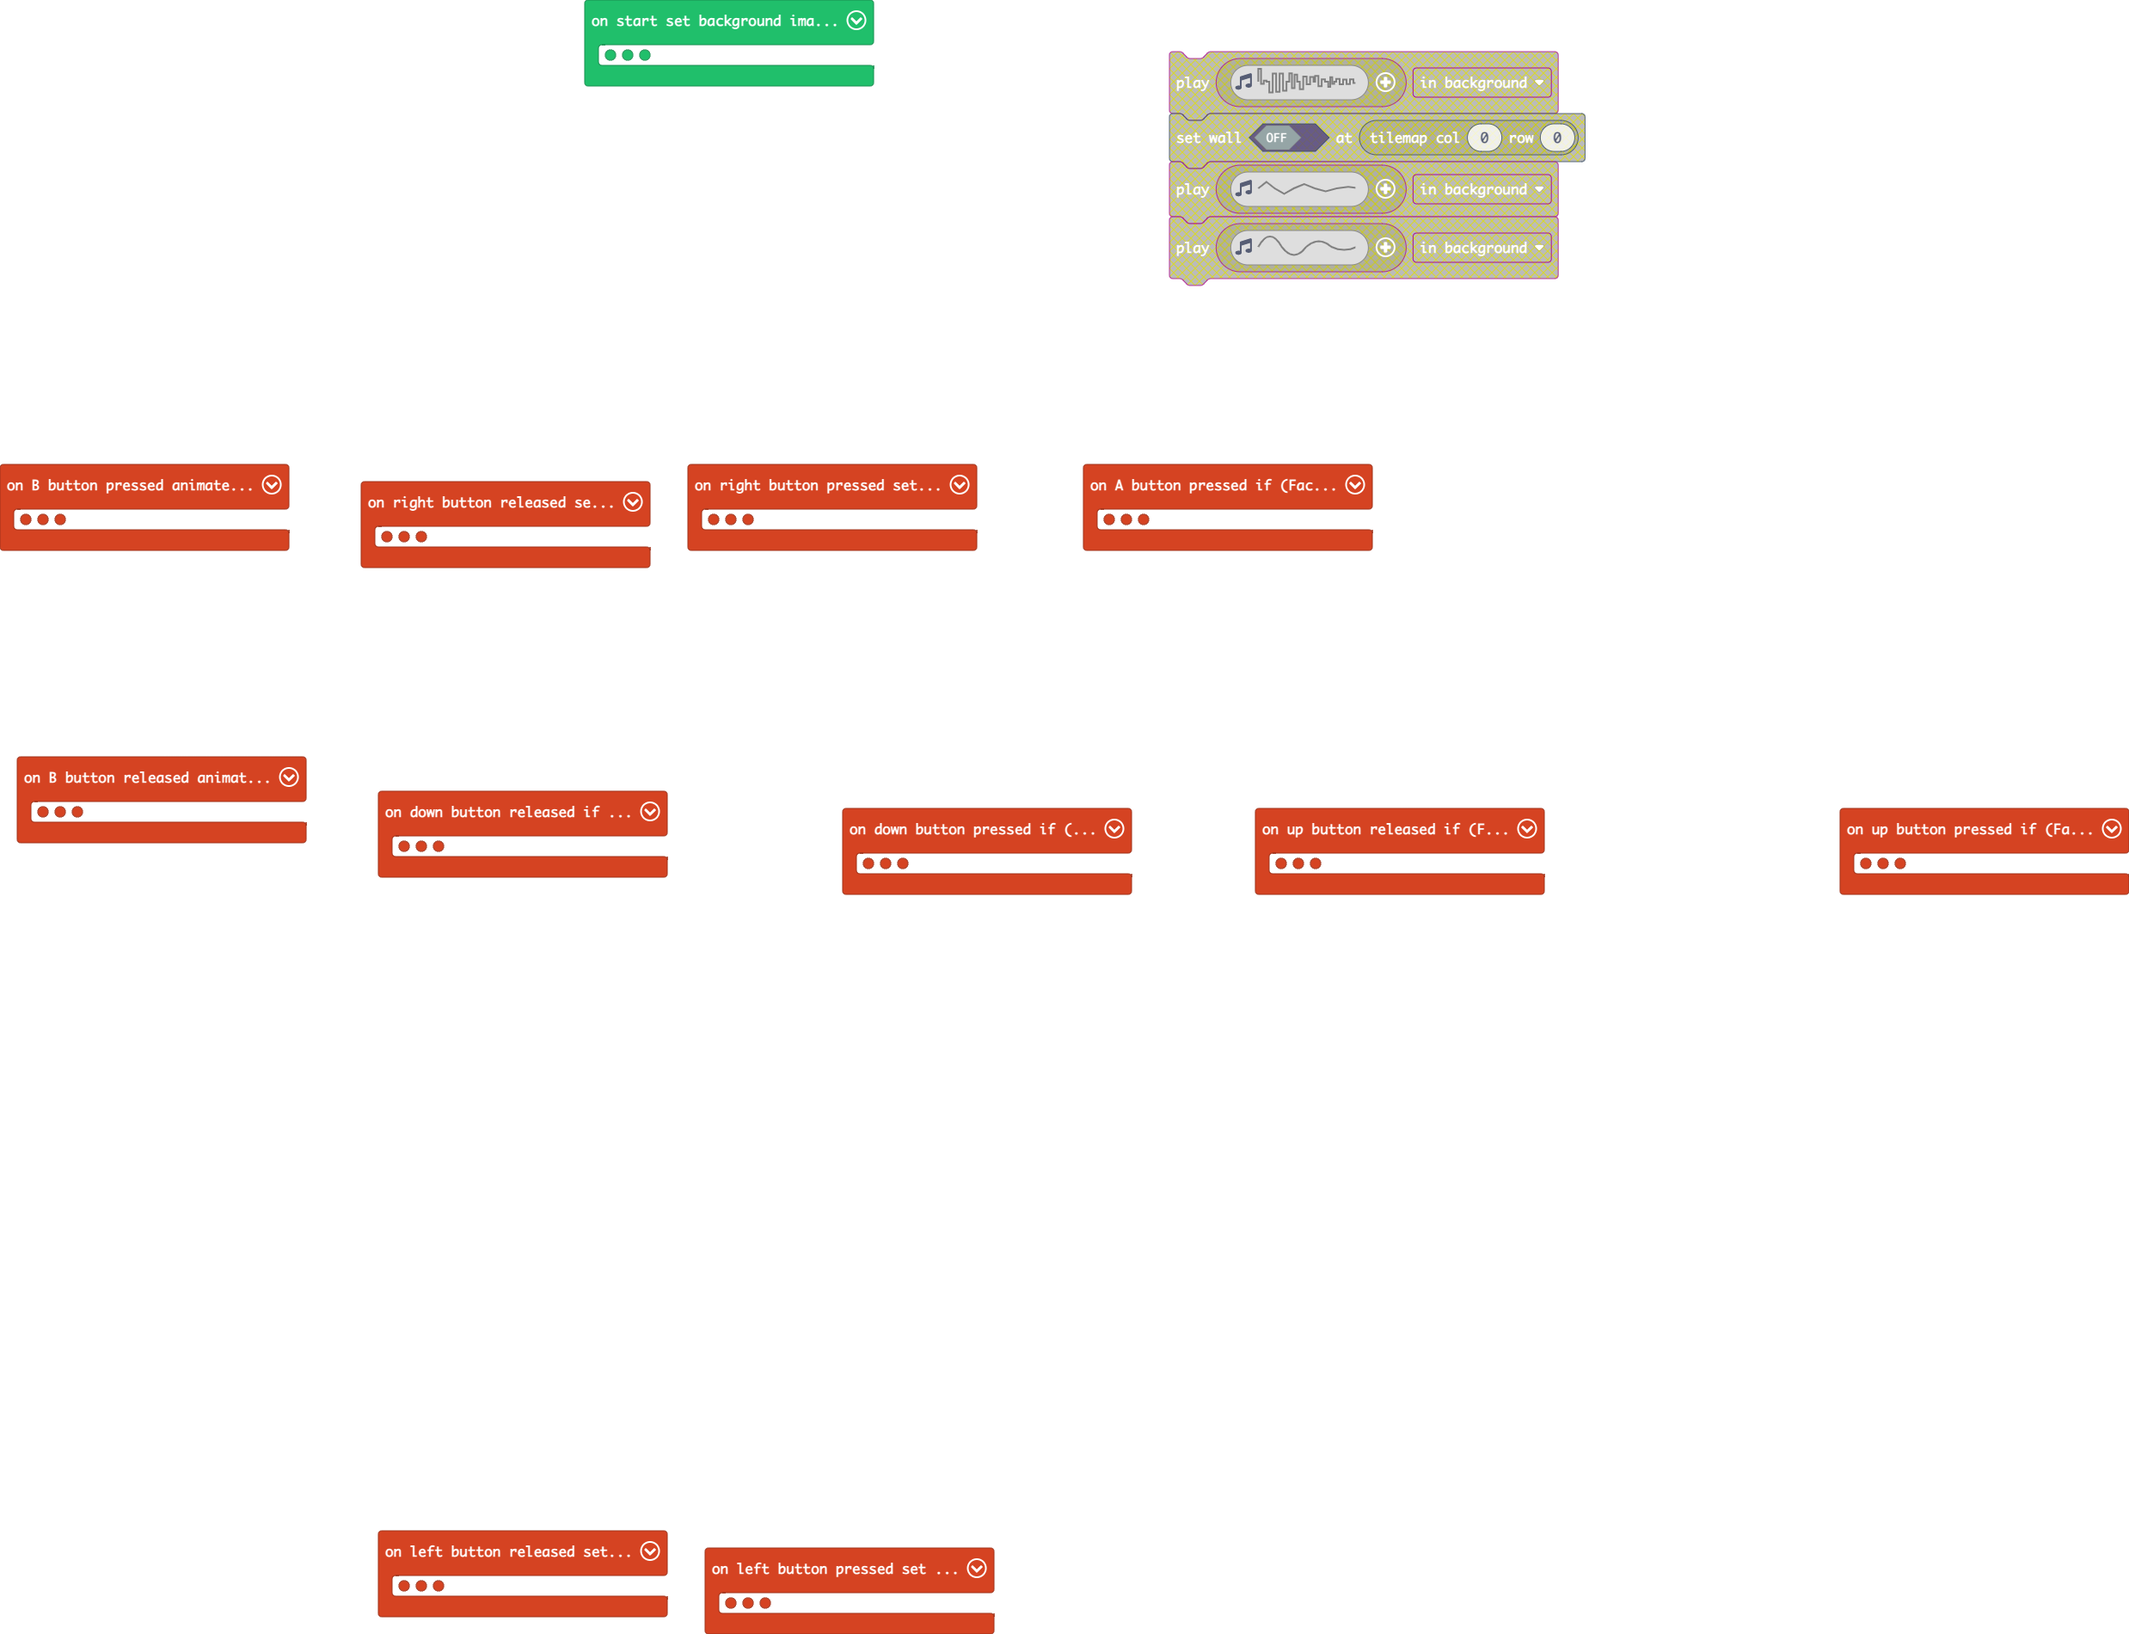
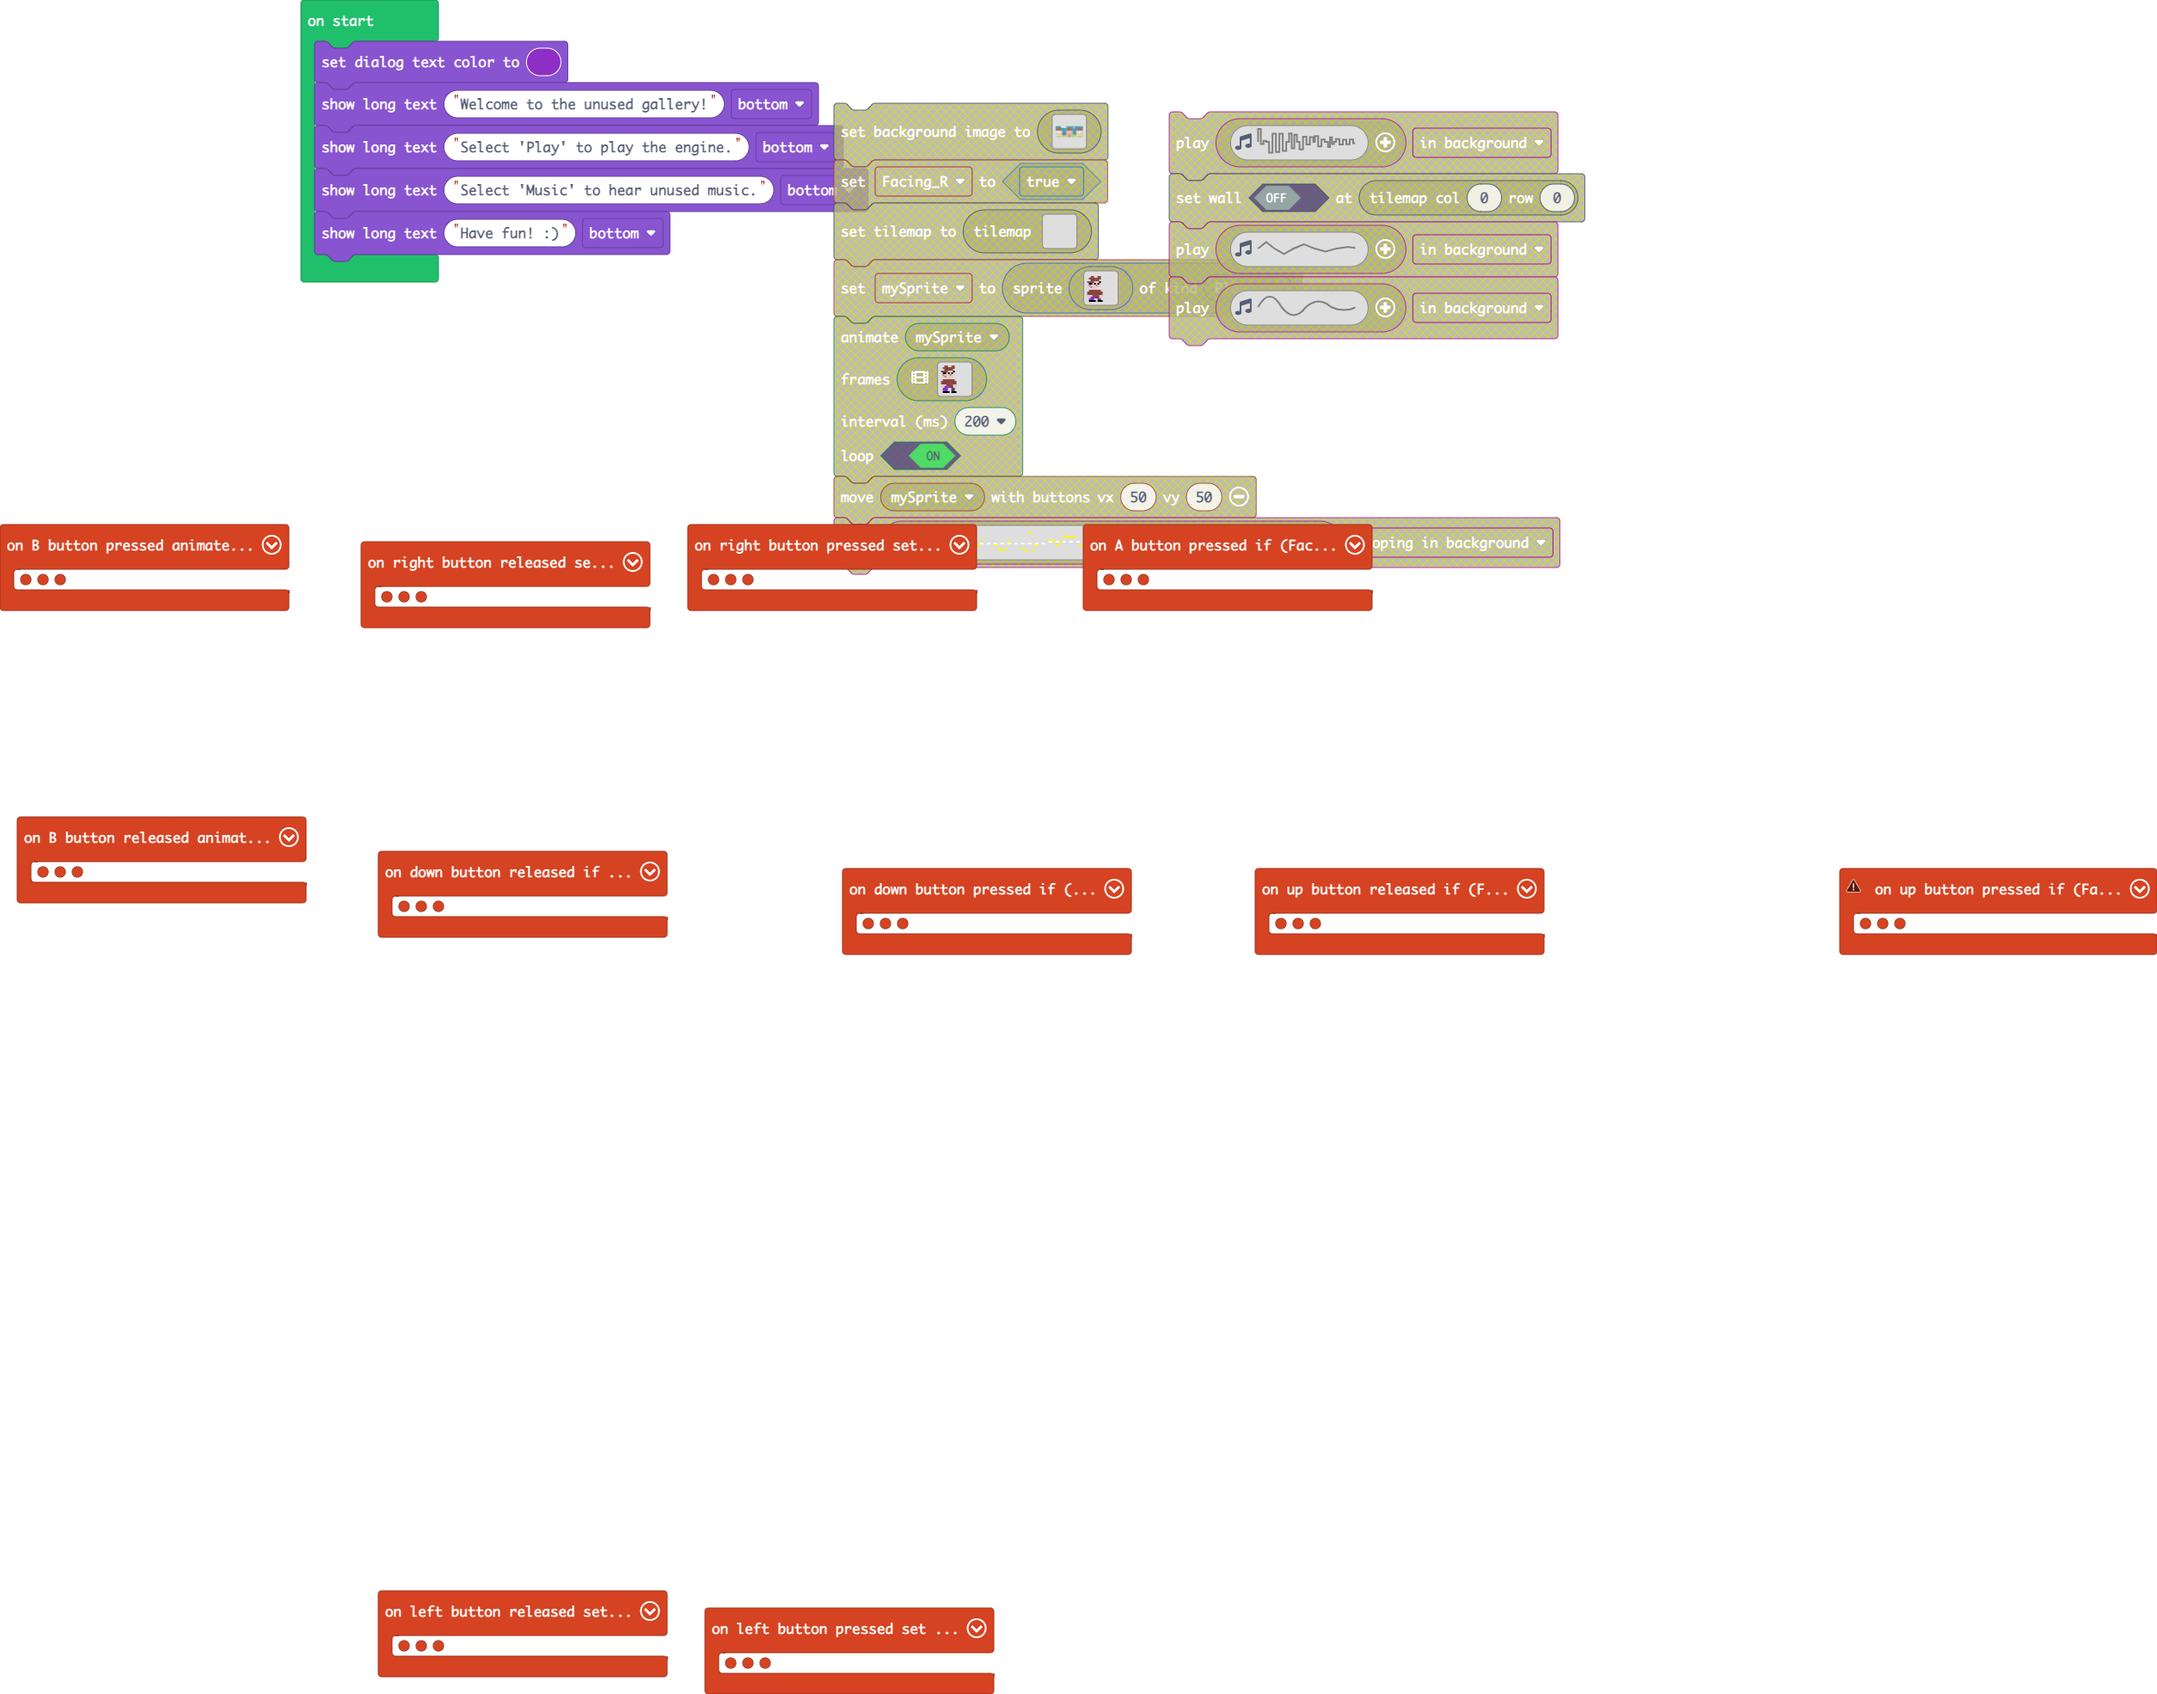
Update main.blocks, main.ts, images.g.jres, images.g.ts

diff --git a/images.g.ts b/images.g.ts
@@ -2236,6 +2236,8 @@ f a a e e d d b d d b d d b d .
[1 lines of base64/hex data omitted]
             case "song12":
[1 lines of base64/hex data omitted]
+            case "song13":
[1 lines of base64/hex data omitted]
         }
         return null;
     })

diff --git a/main.ts b/main.ts
@@ -161,18 +161,11 @@ controller.down.onEvent(ControllerButtonEvent.Released, function () {
         )
     }
 })
-let Facing_L = false
 let mySprite: Sprite = null
+let Facing_L = false
 let Facing_R = false
-scene.setBackgroundImage(assets.image`Background`)
-Facing_R = true
-tiles.setCurrentTilemap(tilemap`level`)
-mySprite = sprites.create(assets.image`Pirate`, SpriteKind.Player)
-animation.runImageAnimation(
-mySprite,
-assets.animation`Pirate Stand`,
-200,
-true
-)
-controller.moveSprite(mySprite, 50, 50)
-music.play(music.createSong(assets.song`Theme`), music.PlaybackMode.LoopingInBackground)
+game.setDialogTextColor(10)
+game.showLongText("Welcome to the unused gallery!", DialogLayout.Bottom)
+game.showLongText("Select 'Play' to play the engine.", DialogLayout.Bottom)
+game.showLongText("Select 'Music' to hear unused music.", DialogLayout.Bottom)
+game.showLongText("Have fun! :)", DialogLayout.Bottom)
